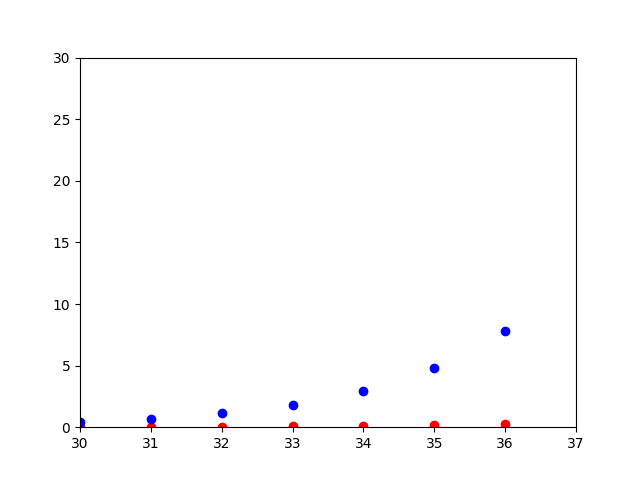
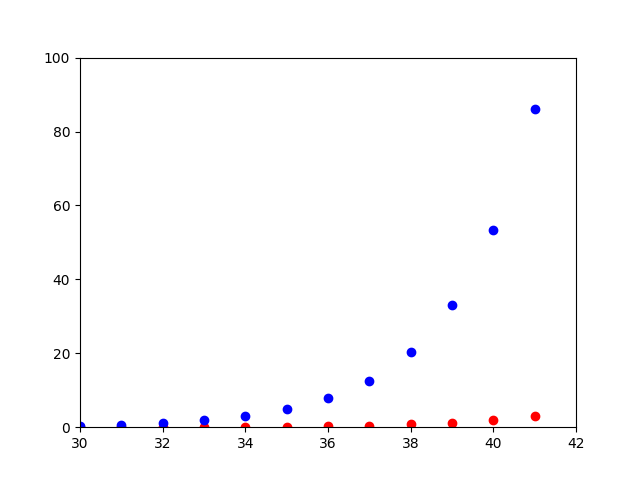
Testing

diff --git a/ou4_2.py b/ou4_2.py
@@ -32,7 +32,7 @@ def main():
     print("Elapsed time for C++ solving fibonacci: ", t2_stop-t2_start)
     
     
-    for i in range(30,46):
+    for i in range(30,42):
         f.set(i)
         tC_start = perf_counter()
         f.fib()
@@ -40,7 +40,7 @@ def main():
         time = tC_stop-tC_start
         time_c_list.append(time)
         
-    for i in range(30,46):
+    for i in range(30,42):
         tpy_start = perf_counter()
         fib_py(i)
         tpy_stop = perf_counter()
@@ -51,9 +51,9 @@ def main():
 
 
     #fig = plt.figure()
-    plt.plot([range(30,46)], [time_c_list], 'ro')
-    plt.plot([range(30,46)], [time_py_list], 'bo')
-    plt.axis([30, 46, 0, 100])
+    plt.plot([range(30,42)], [time_c_list], 'ro')
+    plt.plot([range(30,42)], [time_py_list], 'bo')
+    plt.axis([30, 42, 0, 100])
     plt.savefig('testfibplot.png')
     
 
